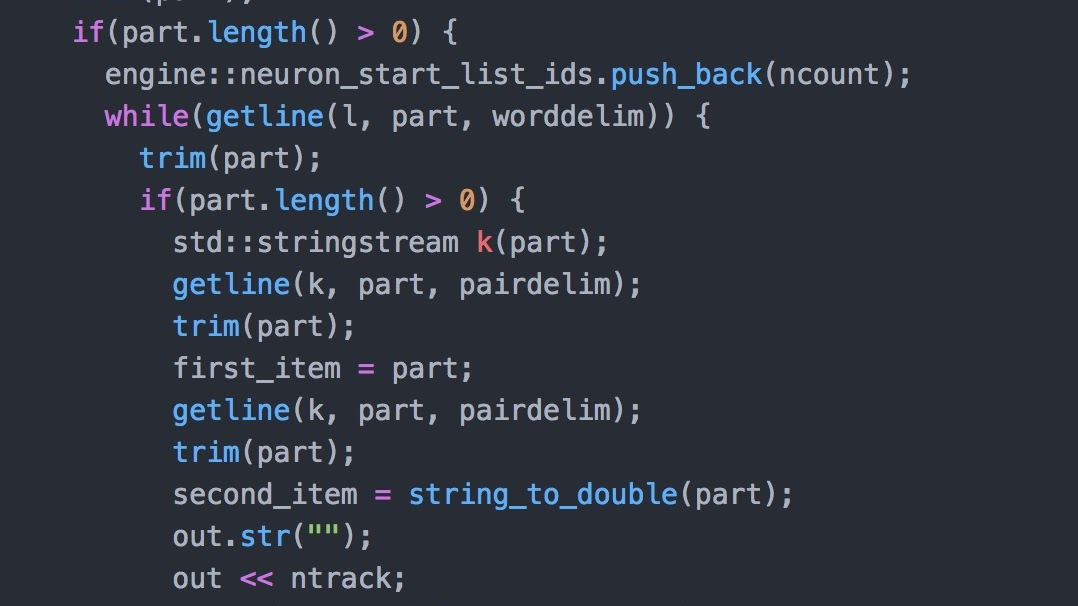
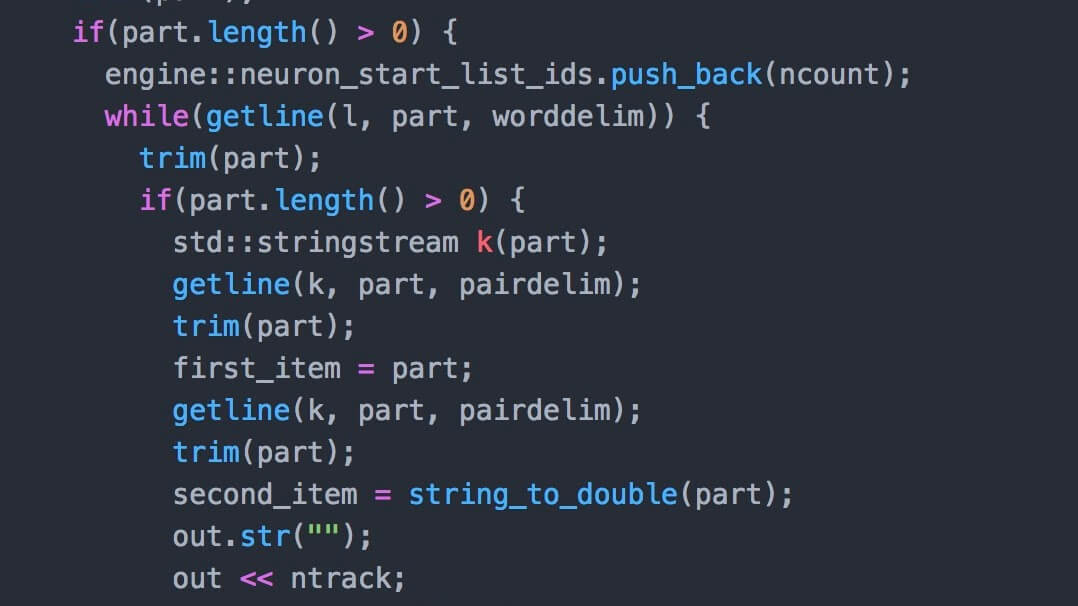
Add Camp news, compress images, remove unused files

diff --git a/src/content/blog/camp2024.md b/src/content/blog/camp2024.md
@@ -1,0 +1,16 @@
+---
+title: "CAMP 2024 is Here!"
+description: "We invite Ph.D. students, master’s students, final-year undergraduates, and postdocs worldwide from all backgrounds to CAMP@Pune. At this intensive 17-day course, students will be trained in theoretical and computational modeling of memory and plasticity in the brain, spanning different scales of space, time, and complexity. This year’s flavor of CAMP will be Data-Driven Neuroscience. The course will have lectures, hands-on tutorials, and projects to launch students into the exciting field of computational neuroscience. Accommodation and meals will be covered for the participants."
+pubDate: "Jun 12 2023"
+heroImage: "/CAMP2024.png"
+badge: "CAMP 2024"
+tags: ["Workshop"]
+---
+
+Technology gives us access to high-dimensional, heterogeneous, and large-scale data on brain structure and function. At one end of the continuum, the traditional hypothesis-driven approach plays a crucial role in neuroscience research. This method relies on formulating specific questions based on existing theories, assumptions, and observations. It involves designing experiments to isolate variables and test hypotheses, often reducing the complexity of biological systems to manageable, simplified models. 
+
+This approach has laid the foundation of much of neuroscience as we know it. However, the complexity of the brain, with its billions of interconnected neurons and a vast array of molecular processes, means that this approach can sometimes overlook emergent properties and interactions that are not apparent under highly controlled conditions or within the confines of existing theoretical frameworks. On the opposite end of the continuum are the exploratory, data-driven studies that have become increasingly feasible with the advent of high-throughput technologies and sophisticated analytical tools. 
+
+These approaches harness the power of big data, applying machine learning algorithms, network analysis, and other computational methods to sift through vast datasets. Data-driven neuroscience can uncover previously unknown patterns, correlations, and causal links within these complex datasets, often revealing phenomena that were not predicted by existing theories. This can lead to the generation of new hypotheses and theoretical models, driving the field forward in unexpected directions. The Möbius strip idealizes the continuum of data-driven neuroscience where different aspects of neuroscience are woven into each other.
+
+More details at [CAMP 2024](https://camp.iiserpune.ac.in)
